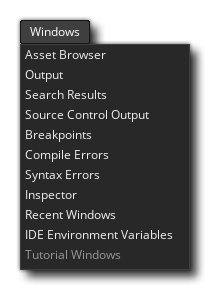
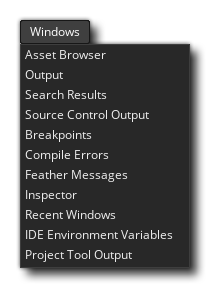
[General]Version Format - Expose ProjectTool to end users YoYoGames/YoYoStudio#9313 * "Feather Settings" page:   * Added HTML element ID to "Enable Feather" item so it can be linked to   * Updated some links to crossrefs, etc.   * Reordered settings according to order in screenshot * "The Windows Me

diff --git a/Manual/contents/IDE_Tools/Project_Image_Generator.htm b/Manual/contents/IDE_Tools/Project_Image_Generator.htm
@@ -4,7 +4,7 @@
 <head>
   <meta http-equiv="Content-Type" content="text/html; charset=utf-8" />
   <title>Project Image Generator</title>
-  <meta name="generator" content="Adobe RoboHelp 2019" />
+  <meta name="generator" content="Adobe RoboHelp 2022" />
   <link rel="stylesheet" href="../assets/css/default.css" type="text/css" />
   <script src="../assets/scripts/main_script.js" type="module"></script>
   <meta name="rh-authors" content="Mark Alexander" />
@@ -14,10 +14,8 @@
 </head>
 <body>
   <!--<div class="body-scroll" style="top: 150px;">-->
-  <h1>Project Image Generator</h1>
-  <p><img alt="Generate Project Images" class="center" src="../assets/Images/IDE Tools/Project_Image_Generator.png" />The <strong>Project Image Generator</strong> is accessed from the <a href="../IDE_Navigation/Menus/The_Tools_Menu.htm">Tools Menu</a> at
-    the top of the <span data-keyref="GameMaker Name">GameMaker</span> IDE. This tool is designed to quickly create all the different splash screens, promo images and icons that are required by all the different target platforms from a single set of images. You supply the base image
-    and the base icon and then click the <strong>Generate </strong>button, and your <a href="../Settings/Game_Options.htm">Game Options</a> for each platform will update with the new images.</p>
+  <h1><span data-field="title" data-format="default">Project Image Generator</span></h1>
+  <p><img alt="Generate Project Images" class="center" src="../assets/Images/IDE Tools/Project_Image_Generator.png" />The <strong>Project Image Generator</strong> is accessed from the <a href="../IDE_Navigation/Menus/The_Tools_Menu.htm">Tools Menu</a> at the top of the <span data-keyref="GameMaker Name">GameMaker</span> IDE. This tool is designed to quickly create all the different splash screens, promo images and icons that are required by all the different target platforms from a single set of images. You supply the base image and the base icon and then click the <strong>Generate </strong>button, and your <a href="../Settings/Game_Options.htm">Game Options</a> for each platform will update with the new images.</p>
   <p>For this to work correctly you need to supply a high resolution splash screen and a high resolution icon image. The recommended sizes would be:</p>
   <ul class="colour">
     <li><strong>Splash Screen</strong>: at least 1920x1080px, or 1080x1920px for portrait, and authored as a 24bit <span class="inline">*.png</span> with no transparencies.</li>
@@ -27,17 +25,12 @@
   <ul class="colour">
     <li><strong>Keep Aspect Ratio</strong> - this will scale the image to fit maintaining the aspect ratio and adding in a background colour to fill in the sides if the fit is not 1:1</li>
     <li><strong>Stretch To Fit</strong> - this will stretch the images to fit the full size of the image/icon.</li>
-    <li><strong>Crop To Fit</strong> - this will take the base image and make it fit best along either the horizontal or vertical axis and then crop the remainder. For example, if you have a 640x480 image that has to be used as a splash screen for 480x800,
-      then the image will be scaled <em>up</em> to fit the vertical axis (480 -&gt; 800) and the rest of the image will be cropped away. Likewise if you have a 1080x1920 image that has to fit 800x800 then the image will be scaled down to fit the horizontal
-      axis and the rest cropped away.</li>
+    <li><strong>Crop To Fit</strong> - this will take the base image and make it fit best along either the horizontal or vertical axis and then crop the remainder. For example, if you have a 640x480 image that has to be used as a splash screen for 480x800, then the image will be scaled <em>up</em> to fit the vertical axis (480 -&gt; 800) and the rest of the image will be cropped away. Likewise if you have a 1080x1920 image that has to fit 800x800 then the image will be scaled down to fit the horizontal axis and the rest cropped away.</li>
   </ul>
   <p>You can also set the <strong>background colour</strong> for both icons and images. This colour will be used to &quot;pad&quot; the image when scaled with aspect ratio. The following image shows how this will look once everything has been set up:</p>
-  <p><img alt="Generate Project Images Example" class="center" src="../assets/Images/IDE Tools/Project_Image_Generator_Example.png" />Now all you have to do is click on <strong>Generate </strong>and <span data-keyref="GameMaker Name">GameMaker</span> will populate all the Game Options <strong>Image </strong>and
-    <strong>Icon </strong>settings with images for each platform.</p>
+  <p><img alt="Generate Project Images Example" class="center" src="../assets/Images/IDE Tools/Project_Image_Generator_Example.png" />Now all you have to do is click on <strong>Generate </strong>and <span data-keyref="GameMaker Name">GameMaker</span> will populate all the Game Options <strong>Image </strong>and <strong>Icon </strong>settings with images for each platform.</p>
   <p class="note"><strong>NOTE</strong>: The exception to the above statement is <a href="../Settings/Game_Options/Android.htm">Android Adaptive Icons</a>. These <strong>will not be generated</strong> using this tool due to the way they are structured.</p>
-  <p class="note"><strong>IMPORTANT! </strong>While this tool will generate all the images you require, that does not mean it is perfect! It will try to do its best to make the images suit the different sizes and resolutions for each platform but sometimes this may not
-    look how you really want since there really is no &quot;one size fits all&quot; solution. Therefore after running this tool we recommend that you revise all the images in each platforms Game Options and tweak those that may not look exactly how you
-    want manually.</p>
+  <p class="note"><strong>IMPORTANT! </strong>While this tool will generate all the images you require, that does not mean it is perfect! It will try to do its best to make the images suit the different sizes and resolutions for each platform but sometimes this may not look how you really want since there really is no &quot;one size fits all&quot; solution. Therefore after running this tool we recommend that you revise all the images in each platforms Game Options and tweak those that may not look exactly how you want manually.</p>
   <p> </p>
   <p> </p>
   <p> </p>
@@ -48,7 +41,7 @@
         <div style="float:right">Next: <a href="Sound_Mixer.htm">Sound Mixer</a></div>
       </div>
     </div>
-    <h5><span data-keyref="Copyright Notice">© Copyright YoYo Games Ltd. 2021 All Rights Reserved</span></h5>
+    <h5><span data-keyref="Copyright Notice">© Copyright YoYo Games Ltd. 2023 All Rights Reserved</span></h5>
   </div>
   <!-- KEYWORDS
 Project Image Generator

diff --git a/Manual/contents/Setting_Up_And_Version_Information/IDE_Preferences/Feather_Settings.htm b/Manual/contents/Setting_Up_And_Version_Information/IDE_Preferences/Feather_Settings.htm
@@ -32,15 +32,15 @@
   <h2 id="s1">Base Options</h2>
   <p><img class="center" src="../../assets/Images/Setup_And_Version/Preferences/Feather/FeatherPrefs_Base.png" />The base Feather Settings contain the following options:</p>
   <ul class="colour">
-    <li><strong>Enable Strict Type mode</strong>: When this is enabled, Feather is stricter about ensuring you use the correct data types in your code.</li>
-    <li><strong>Do not analyze project for Room Instances with auto-generated names</strong>: Enabling this will make Feather not analyse the project for newly added instances. Feather will however analyse your project again when you rename a room instance to a name that&#39;s different from its original auto-generated name.</li>
-    <li><strong>Do not analyze Room Instances</strong>: When this is enabled, Feather will never analyse any Instance Creation Code or reparse the project for new room instances, even when you rename them.</li>
-    <li><strong>Enable Feather</strong>: Enable or disable Feather here. When disabled, no Feather features will be available throughout the IDE.</li>
+    <li id="enable_feather"><strong>Enable Feather</strong>: Enable or disable Feather here. When disabled, no Feather features will be available throughout the IDE.</li>
     <li><strong>Document Parse Delay</strong>: The amount of time Feather waits to check your script after you make a change to it.</li>
     <li><strong>Compact Tooltips</strong>: Enabling this will remove certain tooltip information that appears when hovering over keywords, such as parameter descriptions for functions, ultimately making your tooltips smaller.</li>
     <li><strong>The maximum number of struct fields that are displayed by tooltips</strong>: When you hover over a struct reference, a tooltip displays the variables inside that struct, up to the number entered here.</li>
-    <li><strong>Refactor references to asset name when asset is renamed in Asset Browser</strong>: Enabling this will ensure that when you rename an asset in your Asset Browser, any mentions of it in your code are also edited so those references don&#39;t break.</li>
-    <li><strong>Prefer multiline JSDoc comment style when creating from Quick Fix</strong>: When you generate JSDoc comments for a function through the <a data-xref="{text}" href="../../The_Asset_Editors/Code_Editor_Properties/Feather_Features.htm#h1">Quick Fixes</a> menu, the generated JSDoc will either use single-line or multi-line <a href="../../GameMaker_Language/GML_Overview/Commenting_Code.htm">comments</a>, depending on this option.</li>
+    <li><strong>Refactor references to asset name when asset is renamed in Asset Browser</strong>: Enabling this will ensure that when you rename an asset in <a data-xref="{title}" href="../../Introduction/The_Asset_Browser.htm">The Asset Browser</a>, any mentions of it in your code are also edited so those references don&#39;t break.</li>
+    <li><strong>Prefer multiline JSDoc comment style when creating from Quick Fix</strong>: When you generate <a data-xref="{title}" href="../../The_Asset_Editors/Code_Editor_Properties/JSDoc_Script_Comments.htm">JSDoc Script Comments</a> for a function through the <a data-xref="{text}" href="../../The_Asset_Editors/Code_Editor_Properties/Feather_Features.htm#h1">Quick Fixes</a> menu, the generated JSDoc will either use single-line or multi-line <a href="../../GameMaker_Language/GML_Overview/Commenting_Code.htm">comments</a>, depending on this option.</li>
+    <li><strong>Enable Strict Type mode</strong>: When this is enabled, Feather is stricter about ensuring you use the correct data types in your code.</li>
+    <li><strong>Do not analyze project for Room Instances with auto-generated names</strong>: Enabling this will make Feather not analyse the project for newly added instances. Feather will however analyse your project again when you rename a room instance to a name that&#39;s different from its original auto-generated name.</li>
+    <li><strong>Do not analyze Room Instances</strong>: When this is enabled, Feather will never analyse any Instance Creation Code or reparse the project for new room instances, even when you rename them.</li>
   </ul>
   <h2 id="s2">Highlighting</h2>
   <p><img class="center" src="../../assets/Images/Setup_And_Version/Preferences/Feather/FeatherPrefs_Highlighting.png" style="cursor: nesw-resize;" /></p>
@@ -65,7 +65,7 @@
   <p>You can set a rule to &quot;<strong>Ignore</strong>&quot; which will ignore all instances of that rule being broken.</p>
   <p>All rules starting from &quot;<strong>GM1000</strong>&quot; check your syntax for possible fatal errors, and those starting from &quot;<strong>GM2000</strong>&quot; are best-practice rules that help you prevent bugs in your game.</p>
   <h2 id="s4">Naming Rules</h2>
-  <p><img class="center" src="../../assets/Images/Setup_And_Version/Preferences/Feather/FeatherPrefs_NamingRules.png" />This section allows you to set naming rules for assets, variables and various other parts of GML Code.</p>
+  <p><img class="center" src="../../assets/Images/Setup_And_Version/Preferences/Feather/FeatherPrefs_NamingRules.png" />This section allows you to set naming rules for assets, variables and various other parts of <span data-keyref="GML_Code">GML Code</span>.</p>
   <p>The GM2017 rule under &quot;Message Severity&quot; must be enabled for naming rules to take effect. By default, it&#39;s disabled.</p>
   <p>The settings in this section are as follows:</p>
   <ul class="colour">

diff --git a/Manual/contents/IDE_Navigation/Menus/The_Windows_Menu.htm b/Manual/contents/IDE_Navigation/Menus/The_Windows_Menu.htm
@@ -16,10 +16,10 @@
   <!--<div class="body-scroll" style="top: 150px;">-->
   <h1>The Windows Menu</h1>
   <p><img alt="The Windows Menu" class="center" src="../../assets/Images/IDE_Input/Window_Menu.png" /></p>
-  <p>This menu is for opening the general docked IDE windows. Since docks can be re-arranged and the contents can be removed as stand-alone windows or even closed entirely, this window permits you to re-open them if you find that you need them for anything. The windows that can be opened from here are <a data-xref="{title}" href="../../Introduction/The_Asset_Browser.htm">The Asset Browser</a> window and all the different <a href="../../Introduction/The_Output_Window.htm">Output</a> windows (Output, Search, Source Control, Breakpoints and Compile/Syntax Errors).</p>
-  <p>Next you can open the <a href="../../IDE_Tools/The_Inspector.htm">Inspector</a> window. This window is used to inspect the properties of the currently selected IDE element, and these properties can then be edited as required.</p>
-  <p>After the Inspector option you have the <a href="../Recent_Windows.htm">Recent Windows</a> list, and there is also the option to open the <strong>Environment Variables</strong> window where you can see the different paths that the various environment variables used in the <a href="../../Setting_Up_And_Version_Information/IDE_Preferences.htm">Preferences</a> point to. These variables cannot be edited (neither their name nor their path/setting) but you can select and copy/paste any of them for use elsewhere.</p>
-  <p><img alt="Environment Variables" class="center" src="../../assets/Images/IDE_Input/Environment_Variables.png" />Finally you have the option to open <strong>Tutorial Windows</strong>. This will re-open any windows that are related to a tutorial project you have opened, but only if the project is one that was created as part of a tutorial (if not, this option will be unavailable). For information on creating your own tutorial projects, please see the section on the <a href="../../Introduction/The_Marketplace.htm">Marketplace</a> (as all tutorials are created, hosted and downloaded from there).</p>
+  <p>This menu is for opening the general docked IDE windows. Since docks can be rearranged and the contents can be removed as stand-alone windows or even closed entirely, this window permits you to re-open them if you find that you need them for anything. The windows that can be opened from here are <a data-xref="{title}" href="../../Introduction/The_Asset_Browser.htm">The Asset Browser</a> window and all the different <a href="../../Introduction/The_Output_Window.htm">Output</a> windows (Output, Search, Source Control, Breakpoints and Compile/Syntax Errors). Note that Feather Messages is shown instead of Syntax Errors if you&#39;ve <a href="../../Setting_Up_And_Version_Information/IDE_Preferences/Feather_Settings.htm#enable_feather">enabled Feather</a>.</p>
+  <p>Next you can open <a data-xref="{title}" href="../../IDE_Tools/The_Inspector.htm">The Inspector</a> window. This window is used to inspect the properties of the currently selected IDE element, and these properties can then be edited as required.</p>
+  <p>After the Inspector option you have the <a data-xref="{title}" href="../Recent_Windows.htm">Recent Windows</a> list, and there is also the option to open the <strong>Environment Variables</strong> window where you can see the different paths that the various environment variables used in the <a href="../../Setting_Up_And_Version_Information/IDE_Preferences.htm">Preferences</a> point to. These variables cannot be edited (neither their name nor their path/setting) but you can select and copy/paste any of them for use elsewhere.</p>
+  <p><img alt="Environment Variables" class="center" src="../../assets/Images/IDE_Input/Environment_Variables.png" />Finally you have an option to open the <strong>Project Tool Output</strong> window. This windows shows the output of the <a data-xref="{title}" href="../../IDE_Tools/Project_Tool.htm">ProjectTool</a>.</p>
   <p> </p>
   <p> </p>
   <p> </p>

diff --git a/Manual/contents/IDE_Tools/Source_Control.htm b/Manual/contents/IDE_Tools/Source_Control.htm
@@ -4,7 +4,7 @@
 <head>
   <meta http-equiv="Content-Type" content="text/html; charset=utf-8" />
   <title>Source Control</title>
-  <meta name="generator" content="Adobe RoboHelp 2020" />
+  <meta name="generator" content="Adobe RoboHelp 2022" />
   <link rel="stylesheet" href="../assets/css/default.css" type="text/css" />
   <script src="../assets/scripts/main_script.js" type="module"></script>
   <meta name="rh-authors" content="Mark Alexander" />
@@ -15,11 +15,11 @@
 </head>
 <body>
   <!--<div class="body-scroll" style="top: 150px;">-->
-  <h1>Source Control</h1>
+  <h1><span data-field="title" data-format="default">Source Control</span></h1>
   <p><strong>Source Control Management</strong> (SCM) is the name given to the method of working with <strong>sub-versions</strong> or backups of your projects through a repository and local source. Basically, an SCM solution is an independent software package which controls all the aspects of maintaining, changing and comparing versions of your project as you work on it. This is especially useful to those that work in a team and need to be able to control who does what and not worry about losing data or making changes that may need to be undone at a later date, but individuals can benefit from this powerful yet flexible system too.</p>
-  <p><span data-keyref="GameMaker Name">GameMaker</span> makes use of <a href="https://git-scm.com/" title="Git">Git</a> for its SCM, which must be installed and set up separately before SCM can be used within GameMaker. See the <a href="https://git-scm.com/doc" title="Git Documentation">Git Documentation</a> for more specific info regarding Git.</p>
+  <p><span data-keyref="GameMaker Name">GameMaker</span> makes use of <a href="https://git-scm.com/" title="Git">Git</a> for its SCM, which must be installed and set up separately before SCM can be used within <span data-keyref="GameMaker Name">GameMaker</span>. See the <a href="https://git-scm.com/doc" title="Git Documentation">Git Documentation</a> for more specific info regarding Git.</p>
   <p>Below you can find links to a small tutorial on how to set up this plugin and use the SCM tools with a project.</p>
-  <p class="note"><strong>IMPORTANT!</strong> We recommend that you have some working knowledge of how source control works before attempting to use it in <span data-keyref="GameMaker Name">GameMaker</span>.</p>
+  <p class="note"><b><span data-conref="../assets/snippets/Tag_important.hts"> </span> </b>We recommend that you have some working knowledge of how source control works before attempting to use it in <span data-keyref="GameMaker Name">GameMaker</span>.</p>
   <ul class="colour">
     <li><a href="Source_Control/Setting_Up_Git_Plugin.htm">Setting Up The Git Plugin</a></li>
     <li><a href="Source_Control/Repository_Options.htm">Repository Options</a></li>
@@ -50,7 +50,7 @@
         <div style="float:right">Next: <a href="Source_Control/Setting_Up_Git_Plugin.htm">Setting Up The Git Plugin</a></div>
       </div>
     </div>
-    <h5><span data-keyref="Copyright Notice">© Copyright YoYo Games Ltd. 2021 All Rights Reserved</span></h5>
+    <h5><span data-keyref="Copyright Notice">© Copyright YoYo Games Ltd. 2023 All Rights Reserved</span></h5>
   </div>
   <!-- KEYWORDS
 Source Control

diff --git a/Manual/contents/IDE_Tools/The_Micro_Web_Server.htm b/Manual/contents/IDE_Tools/The_Micro_Web_Server.htm
@@ -4,7 +4,7 @@
 <head>
   <meta http-equiv="Content-Type" content="text/html; charset=utf-8" />
   <title>The Micro Web Server</title>
-  <meta name="generator" content="Adobe RoboHelp 2020" />
+  <meta name="generator" content="Adobe RoboHelp 2022" />
   <link rel="stylesheet" href="../assets/css/default.css" type="text/css" />
   <script src="../assets/scripts/main_script.js" type="module"></script>
   <meta name="rh-authors" content="Mark Alexander" />
@@ -14,7 +14,7 @@
 </head>
 <body>
   <!--<div class="body-scroll" style="top: 150px;">-->
-  <h1>The Micro Web Server</h1>
+  <h1><span data-field="title" data-format="default">The Micro Web Server</span></h1>
   <p>This small tool&#39;s primary function is to connect to and serve files to some of the available target platforms for <span data-keyref="GameMaker Name">GameMaker</span> (like the HTML5 target). It also serves files for the <span data-keyref="GameMaker Name">GameMaker</span> manual when used offline.</p>
   <p>When you run a game on a target that requires the Micro Web Server, you will see a new window open as the game is served to the chosen device:</p>
   <p><img alt="Micro Web Server Window" class="center" src="../assets/Images/IDE Tools/Micro_Web_Server.png" /></p>
@@ -34,7 +34,7 @@
         <div style="float:right">Next: <a href="The_Inspector.htm">The Inspector Window</a></div>
       </div>
     </div>
-    <h5><span data-keyref="Copyright Notice">© Copyright YoYo Games Ltd. 2022 All Rights Reserved</span></h5>
+    <h5><span data-keyref="Copyright Notice">© Copyright YoYo Games Ltd. 2023 All Rights Reserved</span></h5>
   </div>
   <!-- KEYWORDS
 Micro Web Server
